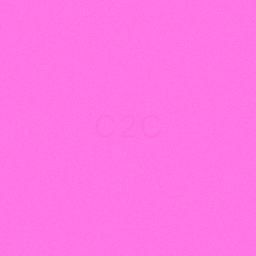
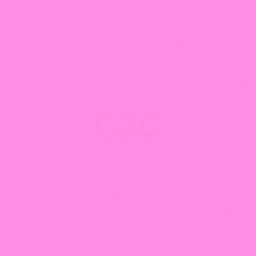
Refine IHS with a satin titanium-silver material

diff --git a/components/ProcessorModel.tsx b/components/ProcessorModel.tsx
@@ -99,7 +99,7 @@ export default function ProcessorModel({progress,mobile}:{progress:RefObject<{va
       <group ref={packageGroup}>
       <group ref={layers}>
         <group name="heat-spreader">
-          <mesh geometry={geometry.lid} castShadow receiveShadow><meshStandardMaterial color="#e0e2d9" map={maps.metalColor} metalness={.98} roughness={.75} roughnessMap={maps.metalSurface} normalMap={maps.metalNormal} normalScale={new THREE.Vector2(.16,.16)} envMapIntensity={1.1}/></mesh>
+          <mesh geometry={geometry.lid} castShadow receiveShadow><meshStandardMaterial color="#b4bac0" map={maps.metalColor} metalness={.97} roughness={.92} roughnessMap={maps.metalSurface} normalMap={maps.metalNormal} normalScale={new THREE.Vector2(.2,.2)} envMapIntensity={.72}/></mesh>
         </group>
         <group name="thermal-interface"><mesh geometry={geometry.thermal} castShadow><meshStandardMaterial color="#858a7f" metalness={.1} roughness={.88}/></mesh></group>
         <group name="silicon-die">

diff --git a/IHS_SATIN_REPORT.md b/IHS_SATIN_REPORT.md
@@ -1,0 +1,64 @@
+# C2C — IHS saten titanyum-gümüş materyali
+
+Başlangıç commit'i: `b7d2462`; başlangıç Git durumu temizdi. Geri dönüş etiketi: `checkpoint/ihs-satin-before-b7d2462`.
+
+Yalnızca IHS materyali ve üç IHS yüzey haritası düzenlendi. Açılış posterleri aynı sahneden yeniden üretildi. Yeni özellik, tasarım, ışık, geometri veya animasyon eklenmedi.
+
+## Görsel değişiklik
+
+| IHS ayarı | Önce | Sonra |
+|---|---|---|
+| Materyal temel tonu | #e0e2d9 | #b4bac0 |
+| Albedo haritası temel tonu | #c4c6be | #b8bdc0 |
+| Metalness | 0,98 | 0,97 |
+| Roughness çarpanı | 0,75 | 0,92 |
+| Roughness haritası tabanı | 0,4 | 0,5 |
+| Environment yansıma yoğunluğu | 1,1 | 0,72 |
+| Normal ölçeği | 0,16 | 0,20 |
+| C2C lazer tonunun harita opaklığı | 0,65 | 0,30 |
+
+Soğuk gümüş temel ton ve daha düşük yansıma yoğunluğu, geniş beyaz parlamayı azaltır. Roughness değeri haritayla çarpılır; 0,92 tek başına nihai yüzey roughness'i değildir. Yüzeyde ince yönlü fırçalama korunup rastgele mikro gürültü azaltıldı. C2C aynı yüzey haritasına düşük kontrastla işlenir; yeni etiket veya parlayan katman yoktur. Mevcut Standard materyal tipi ve shader özellikleri korunur.
+
+## Aynı açıdan karşılaştırma
+
+375, 768, 1440 ve 1920 px genişliklerinde başlangıç, kapalı CPU yakın planı, açık iç yapı ve final kadrajı önce/sonra kaydedildi. Kamera, target, ölçek, katman koordinatları, draw call, üçgen, program ve texture sayıları karşılaştırıldı. Kamera/layer dataset değerleri eşit; gerçek kamera–CPU uzaklık farkı 0,001 sahne birimi altında. Normal sayfalarda JavaScript hatası yok. Son görüntüler production sunucusunda gerçek headless Chrome / WebGL ile alındı; kişisel Chrome profili kullanılmadı.
+
+Kapak üst yüzeyinin projekte edilen iç alanında sRGB görüntü luma ve beyaza yakın piksel örneklemi:
+
+| Genişlik | Luma önce → sonra | RGB kanallarının tümü >235 olan piksel oranı önce → sonra |
+|---|---:|---:|
+| 375 | 208.5 → 202.7 | %9.3 → %0.0 |
+| 768 | 208.3 → 202.7 | %9.3 → %0.0 |
+| 1440 | 208.7 → 195.3 | %8.8 → %0.0 |
+| 1920 | 208.5 → 195.2 | %8.7 → %0.0 |
+
+Bu görüntü karşılaştırması fiziksel fotometri veya alaşım ölçümü değildir. Görsel ton, kenar çizgileri, fırça dokusu ve lazer işareti aynı kamera açılarıyla ayrıca gözle incelendi.
+
+## Kapsam ve performans
+
+ProcessorModel dosyası, IHS materyalinin tek satırı dışında başlangıç commit'iyle aynı. Kamera/scroll zamanlaması, açılma-kapanma, final geri çekilme, dolgu ışığı, ana ışık ve environment değişmedi. CPU iç katmanları, anakart GLB/dokuları, diğer bölümler ve CSS kaynakları değişmedi. Kaynak karşılaştırması [kapsam kaydında](artifacts/ihs-satin/preservation.json).
+
+- TypeScript: **PASS** — typecheck ve son production build TypeScript aşaması.
+- ESLint: **PASS** — sıfır uyarı.
+- Production build: **PASS** — 17 sayfa.
+- Dört viewport / dört aynı açı: **PASS**, normal çalışma JavaScript hatası yok.
+- Render bütçesi aynı: 32 draw call; mobil 18.535 / masaüstü 107.523 üçgen; mobil 6 / masaüstü 8 program; mobil 14 / masaüstü 15 texture.
+- Renk haritası 1024px, normal/roughness haritaları 256px olarak kaldı. Üç kapak haritası toplamı 110.934 → 79.449 byte; yaklaşık 31 KB azaldı. Yeni texture, model veya shader özelliği yok.
+
+Lighthouse 12.8.2 production ölçümleri, diğer tarayıcı testleri kapalıyken sıralı çalıştırıldı:
+
+| Koşu | Performance | Accessibility | Best Practices | LCP | TBT | CLS |
+|---|---:|---:|---:|---:|---:|---:|
+| desktop | 95 | 100 | 100 | 1.5 s | 50 ms | 0 |
+| mobile | 88 | 100 | 100 | 3.8 s | 100 ms | 0 |
+
+Önceki kayıtlı değerler masaüstü 93/95, mobil 88; eski commit için bu oturumda yeni Lighthouse koşusu yapılmadı. Belirgin bir render bütçesi artışı yoktur. Fiziksel telefon FPS / pil / sıcaklık ölçümü yapılmadı.
+
+## Kanıtlar
+
+- [Aynı açıda önce/sonra galerisi](artifacts/ihs-satin/index.html)
+- [1440 px önce kapak](artifacts/ihs-satin/before/1440-lid-crop.png) / [sonra kapak](artifacts/ihs-satin/after/1440-lid-crop.png)
+- [Önce ham kamera verisi](artifacts/ihs-satin/before/capture.json) / [sonra](artifacts/ihs-satin/after/capture.json)
+- [Desktop Lighthouse](artifacts/ihs-satin/lighthouse/desktop.report.html) / [mobile](artifacts/ihs-satin/lighthouse/mobile.report.html)
+
+Tekrar üretim: `node scripts/bake-hero-surfaces.mjs --metal-only`; development sunucusu açıkken `node scripts/bake-hero-posters.mjs`. Büyük karşılaştırma dosyaları gitignored artifacts dizinindedir. Bu çalışma IHS materyal rötuşuyla tamamlanmıştır.

diff --git a/public/models/processor/README.md b/public/models/processor/README.md
@@ -2,7 +2,9 @@
 
 Original procedural geometry and textures created for this project by scripts/bake-processor.mjs. No external model or texture is incorporated. Three.js (existing project dependency, MIT) is used as a geometry authoring tool.
 
-Task 1.2 surfaces are authored by `scripts/bake-hero-surfaces.mjs`: 1024px WebP albedo, 256px indexed PNG roughness and tangent normals. Fine patterns represent macro floorplan, memory/interconnect regions, passivation and package routing, not visible individual transistors. The C2C laser mark is integrated into the nickel albedo and finish; no floating label mesh is used.
+Task 1.2 surfaces are authored by `scripts/bake-hero-surfaces.mjs`: 1024px WebP albedo, 256px indexed PNG roughness and tangent normals. Fine patterns represent macro floorplan, memory/interconnect regions, passivation and package routing, not visible individual transistors. The C2C laser mark is integrated into the brushed-metal albedo and finish; no floating label mesh is used.
+
+The IHS now uses a satin titanium-silver visual finish with a cooler, darker base, softer studio reflection and low-contrast laser tone. Regenerate only its three maps with `node scripts/bake-hero-surfaces.mjs --metal-only`; the die, substrate and board maps remain untouched. Texture dimensions and the existing Standard material shader are unchanged.
 
 `scripts/bake-hero-studio.mjs` authors the original neutral three-softbox PMREM at size 64, compressed as RGBA half-float CubeUV. It is exclusive to the Hero; the separate interactive hardware section retains its original environment. No visitor-side PMREM generation or postprocessing is required. Raster authoring uses the existing Sharp dependency (Apache-2.0).
 
